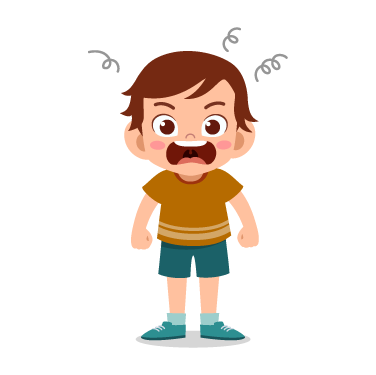
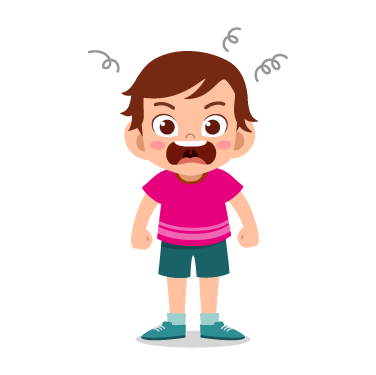
Cambio de personaje y se agregan los dados

Changed region(s): [[0.3803, 0.44, 0.6436, 0.6747]]

diff --git a/codigo.js b/codigo.js
@@ -701,7 +701,7 @@ function preguntar() {
             player1.style.backgroundImage = 'url("./PERSONAJES/CHICO 2/chico 2-08.png")';
         }
         else if(jugador1.personaje == "./PERSONAJES/CHICO 4/chica 4-05.png") {
-            player1.style.backgroundImage = 'url("./PERSONAJES/CHICO 4/chica 4-04.png")';
+            player1.style.backgroundImage = 'url("./PERSONAJES/CHICO 4/chica 4-12.png")';
         }
     }
     else if (nJugador === 2) {
@@ -716,7 +716,7 @@ function preguntar() {
             player2.style.backgroundImage = 'url("./PERSONAJES/CHICO 2/chico 2-08.png")';
         }
         else if(jugador2.personaje == "./PERSONAJES/CHICO 4/chica 4-05.png") {
-            player2.style.backgroundImage = 'url("./PERSONAJES/CHICO 4/chica 4-04.png")';
+            player2.style.backgroundImage = 'url("./PERSONAJES/CHICO 4/chica 4-12.png")';
         }
     }
     else if (nJugador === 3) {
@@ -731,7 +731,7 @@ function preguntar() {
             player3.style.backgroundImage = 'url("./PERSONAJES/CHICO 2/chico 2-08.png")';
         }
         else if(jugador3.personaje == "./PERSONAJES/CHICO 4/chica 4-05.png") {
-            player3.style.backgroundImage = 'url("./PERSONAJES/CHICO 4/chica 4-04.png")';
+            player3.style.backgroundImage = 'url("./PERSONAJES/CHICO 4/chica 4-12.png")';
         }
     }
     if (nJugador === 4) {
@@ -746,7 +746,7 @@ function preguntar() {
             player4.style.backgroundImage = 'url("./PERSONAJES/CHICO 2/chico 2-08.png")';
         }
         else if(jugador4.personaje == "./PERSONAJES/CHICO 4/chica 4-05.png") {
-            player4.style.backgroundImage = 'url("./PERSONAJES/CHICO 4/chica 4-04.png")';
+            player4.style.backgroundImage = 'url("./PERSONAJES/CHICO 4/chica 4-12.png")';
         }
     }
 }
@@ -797,7 +797,7 @@ function respuestaCorrecta() {
             turnoNombre.innerText = `Turno de ${jugador4.nombre}`;
             decir(`Turno de ${jugador4.nombre}`);
         }
-        avanzarCasillas.innerHTML = "";
+        avanzarCasillas.style.backgroundImage = "url('')";
     }
     ReiniciarCuadro();
 }
@@ -847,7 +847,7 @@ function respuestaIncorrecta() {
             turnoNombre.innerText = `Turno de ${jugador4.nombre}`;
             decir(`Turno de ${jugador4.nombre}`);
         }
-        avanzarCasillas.innerHTML = "";
+        avanzarCasillas.style.backgroundImage = "url('')";
     }
     ReiniciarCuadro();
 }
@@ -1316,11 +1316,11 @@ function avanzar() {
             turnoNombre.innerText = `Turno de ${jugador2.nombre}`;
             decir(`Turno de ${jugador2.nombre}`);
         }
-        else if(nJugador === 3) {
+        else if(nJugador === 3 && numeroJugadores > 2) {
             turnoNombre.innerText = `Turno de ${jugador3.nombre}`;
             decir(`Turno de ${jugador3.nombre}`);
         }
-        else if(nJugador === 4) {
+        else if(nJugador === 4 && numeroJugadores > 3) {
             turnoNombre.innerText = `Turno de ${jugador4.nombre}`;
             decir(`Turno de ${jugador4.nombre}`);
         }
@@ -1329,7 +1329,7 @@ function avanzar() {
             turnoNombre.innerText = `Turno de ${jugador1.nombre}`;
             decir(`Turno de ${jugador1.nombre}`);
         }
-        avanzarCasillas.innerHTML = "";
+        avanzarCasillas.style.backgroundImage = "url('')";
         dado.style.opacity = 1;
         dado.style.pointerEvents = 'unset';
     }
@@ -1353,7 +1353,31 @@ player4.addEventListener("transitionend", () => {
 
 dado.addEventListener("click", () => {
     let random = Math.floor((Math.random() * (6 - 1 + 1)) + 1);
-    avanzarCasillas.innerHTML = random;
+    let textoDecirCara = `Avanzar ${random} casillas`;
+    if (random == 1) {
+        avanzarCasillas.style.backgroundImage = 'url("./dados/DADOS-01.png")';
+        decir(textoDecirCara);
+    }
+    else if (random == 2) {
+        avanzarCasillas.style.backgroundImage = 'url("./dados/DADOS-02.png")';
+        decir(textoDecirCara);
+    }
+    else if (random == 3) {
+        avanzarCasillas.style.backgroundImage = 'url("./dados/DADOS-03.png")';
+        decir(textoDecirCara);
+    }
+    else if (random == 4) {
+        avanzarCasillas.style.backgroundImage = 'url("./dados/DADOS-04.png")';
+        decir(textoDecirCara);
+    }
+    else if (random == 5) {
+        avanzarCasillas.style.backgroundImage = 'url("./dados/DADOS-05.png")';
+        decir(textoDecirCara);
+    }
+    else if (random == 6) {
+        avanzarCasillas.style.backgroundImage = 'url("./dados/DADOS-06.png")';
+        decir(textoDecirCara);
+    }
     numeroCasillas = random;
     dibujarNormal();
     avanzar();

diff --git a/index.html b/index.html
@@ -93,7 +93,7 @@
                 </div>
                 <section class="lanzar-dado lanzar-dado--show" id="cuadro-dado">
                     <div class="lanzar-dado__parrafo">
-                        <p id="random"></p>
+                        <div id="random"></div>
                     </div>
                     <div class="lanzar-dado__boton">
                         <button id="dado">Lanzar dado</button>

diff --git a/estilos.css b/estilos.css
@@ -476,9 +476,12 @@ body {
     justify-content: center;
 }
 
-.lanzar-dado__parrafo p {
-    font-size: 4rem;
-    color: #fff;
+.lanzar-dado__parrafo div {
+    width: 200px;
+    height: 200px;
+    background-position: center;
+    background-size: contain;
+    background-repeat: no-repeat;
 }
 
 .lanzar-dado__boton {
